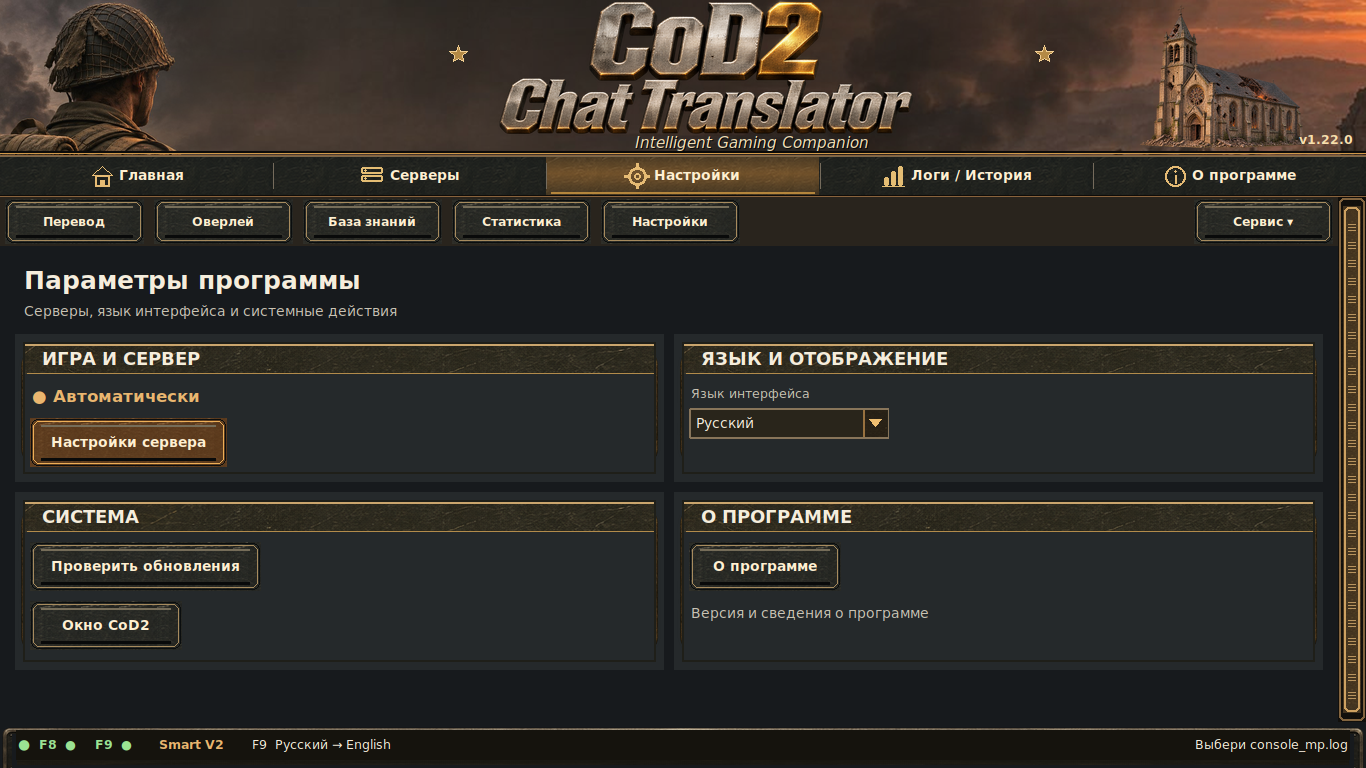
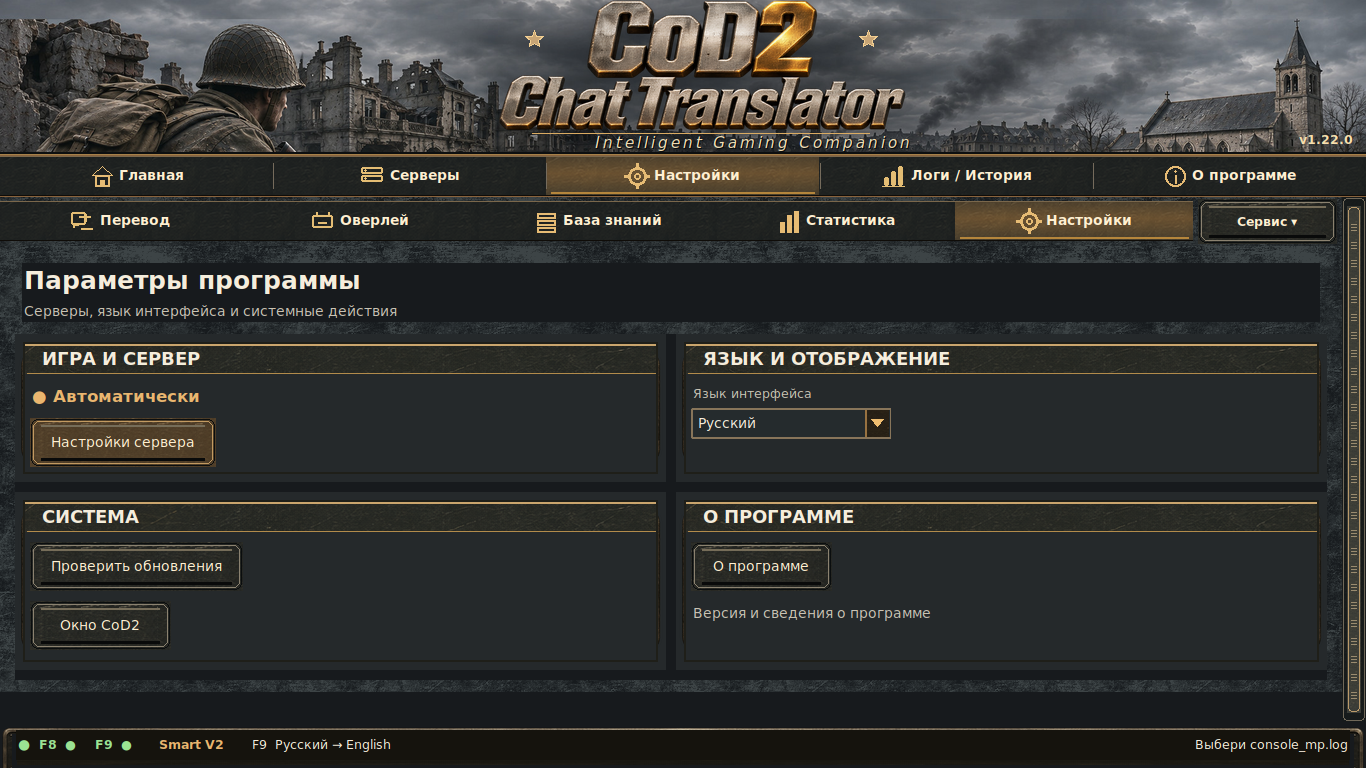
Document final visual acceptance with real application captures

diff --git a/docs/FINAL_ART_RC.md b/docs/FINAL_ART_RC.md
@@ -1,34 +1,35 @@
-# CoD2 Chat Translator v1.22.0 RC — composition acceptance
+# CoD2 Chat Translator v1.22.0 RC — visual and functional acceptance
 
-Draft PR #8, branch `feature/premium-ui-redesign`; no stable release or merge. Base for this pass: `b2018feb4adfc58428b5e5bfef2a19aea94bb078`.
+Draft PR #8, branch `feature/premium-ui-redesign`. Artwork/code acceptance snapshot: `af280c29b2a2abab68ede26b922b2818d66614b1`. Screenshot/documentation commit follows it; no stable release or merge.
 
-## Real application screenshots
+## Real application evidence
 
-`docs/images/final_art_rc/xvfb_*.png` contains 11 main screenshots taken by ffmpeg from the actual running Tk application at 1366×768 with Linux Xvfb. Pages: home, servers, translation, overlay, knowledge, stats, settings, history. Dialogs: server configuration, About, knowledge. The approved artistic reference is `docs/images/server_monitor_rc/reference.png`. An additional `xvfb_home_150pct.png` records the actual Tk application with simulated 150% scaling and vertical scrolling. These screenshots do not represent a Windows installation.
+The images in `docs/images/final_art_rc/` are ffmpeg captures of the actual running Python/Tk application under Linux Xvfb, not generated interface mockups and not Windows captures. Eight pages: `xvfb_home.png`, `xvfb_servers.png`, `xvfb_translation.png`, `xvfb_overlay.png`, `xvfb_knowledge.png`, `xvfb_stats.png`, `xvfb_settings.png`, `xvfb_history.png`. Three actual dialogs: `xvfb_dialog_server.png`, `xvfb_dialog_about.png`, `xvfb_dialog_knowledge_dialog.png`. Extra captures: `xvfb_home_125pct.png` at 1536×864 simulated 125%, `xvfb_home_150pct.png` and `xvfb_dialog_server_150pct.png` at 1366×768 simulated 150%, `xvfb_home_1920.png` at 1920×1080.
 
-The new banner composes a distinct complete church and a larger soldier over a city panorama, preserving their aspect ratio. The logo is a separate asset and the subtitle is legible below it. The tab dividers sit between labels. The green F8/F9 and lower rail toggles remain live checkbuttons. The server list uses actual UDP observations; the five visible player rows are real data, with color runs preserved. A missing game journal is now explicitly signaled, and on Windows the game-window state is separately detected. All expert pages share the graphite palette; the history uses the same styled scrollbar; About uses the approved metallic logo.
+The approved reference remains `docs/images/server_monitor_rc/reference.png`. Compared with it, the new header is one coherent city panorama rather than separately cut-out soldier/church assets; it shows the soldier's helmet, torso and gear, ruined streets and a complete church. Logo, stars, rule and caption remain distinct layers. Cards F8/F9 reveal separate artwork without opaque content rectangles. The steel texture continues between panels, and the extra field-gear illustration appears only on tall desktop screens. Navigation, monitor, lower rail and expert pages use the same restrained graphite/bronze palette.
 
-Compared with the reference, the application still has simpler expert forms and no decorative crate/helmet in the compact Home. Its native Windows titlebar requests dark DWM chrome where supported. At 150% simulated Tk scale on 1366×768, Home scrolls to preserve live controls. Real Windows scale, titlebar and F10 overlay require native validation.
+Remaining visual differences from the reference: the subject is seen from behind instead of facing the viewer; the navigation and table still use styled Tk/ttk primitives, so selected rows remain a solid muted bronze rather than a true soft gradient; expert forms and modal dialogs are less richly composed than the Home page. The Windows native titlebar and controls may differ from these Linux captures.
 
-## Functional verification
+## Verification
 
-- `pytest -q`: 221 passed, 1 skipped.
-- Synthetic semantic safety checks: 32/32, zero unsafe accepted and zero valid rejected. This is not an actual in-game translation benchmark.
-- Real application smoke at 1366×768, 1536×864 and 1920×1080; simulated 100%, 125%, 150% Tk scales; RU, UK and EN; navigation, F8/F9, settings and overlay callbacks, preserved player scroll. At 1366×768 / 100%, Home content is 490 px inside a 495 px viewport.
-- Server/players in the screenshots came from a real CoD2 UDP query. An offline Windows computer was not touched. Native F10, installation and Windows DPI cannot be attested by Linux/Xvfb.
+- `pytest -q`: 222 passed, 1 skipped (tested against the final visual code).
+- `tools/smart_quality_check.py`: 32/32 authored semantic invariants; zero unsafe accepted, zero valid rejected. This is not measured live translation accuracy.
+- Real application smoke: eight pages, three dialogs, RU/UK/EN, F8/F9 switches and keycap activation, overlay edit, Smart Engine, settings callbacks, preserved roster scroll. 1366×768 100%: Home content 490 px, viewport 495 px, no scroll. 1536×864 simulated 125%: content 541 px, viewport 578 px, no scroll. 1366×768 simulated 150%: content 512 px, viewport 535 px, no scroll and dialogs fit. 1920×1080: content 743 px, viewport 794 px, no scroll.
+- A live UDP response from CLASSIC OBORONA `146.59.34.100:28960` reported online, map `mp_harbor`, 12/37 clients, 12 real player records, 37 ms server query in the sampled call. All 12 player ping fields were reported as 0 by the game server. The UI preserves that literal reported value in neutral color with a tooltip explaining that actual latency is unknown; it does not call it an ideal connection. Literal `^^` and unknown `^x` name sequences are retained, while recognized CoD2 color codes remain colored.
+- A real Windows install, DPI behavior, F10 overlay atop the game, in-game hotkeys and CPU use during play are **unverified** because the owner's Windows machine was offline. Linux Xvfb is not a Windows substitute.
 
-## Performance — same VPS, one run per revision
+## Performance
 
-Python/Tk under 1366×768 Xvfb with empty isolated configuration. CPU measures seconds of process time; memory is peak resident set size in MiB. The previous RC values below were recorded for `b2018feb` on the same VPS. One-run results vary with host load.
+Same VPS and isolated empty configuration at 1366×768 Xvfb. Single samples; CPU is process time, RSS is process peak. Previous RC `b2018feb` values were measured on the same host.
 
-| Phase | Previous RC `b2018feb` | This pass |
+| Measurement | Previous RC | Final visual code |
 | --- | ---: | ---: |
-| Startup wall time | 5.686 s | 3.594 s |
-| Startup CPU time | 3.221 s | 3.039 s |
-| Startup peak RSS | 134.2 MiB | 141.6 MiB |
-| Four seconds idle, CPU | 0.593 s | 0.619 s |
-| Peak RSS after idle | 142.0 MiB | 149.6 MiB |
-| Four seconds following manual refresh, CPU | 0.158 s | 0.153 s |
-| Peak RSS following refresh | 142.0 MiB | 149.6 MiB |
+| Startup wall | 5.686 s | 5.412 s |
+| Startup CPU | 3.221 s | 3.158 s |
+| Startup peak RSS | 134.2 MiB | 134.5 MiB |
+| Four seconds idle CPU | 0.593 s | 0.654 s |
+| Peak RSS after idle | 142.0 MiB | 142.7 MiB |
+| Four seconds after refresh CPU | 0.158 s | 0.139 s |
+| Peak RSS after refresh | 142.0 MiB | 142.7 MiB |
 
-The additional independent full-height church asset increases resident memory by about 8 MiB in this sample; no continuous full-frame animation was added. Native Windows idle, in-game CPU and graphics memory remain unmeasured.
+The visual pass increased idle peak RSS by 0.7 MiB in this sample. No constant full-frame animation or extra server process was introduced. Windows runtime values and GPU memory remain unmeasured.
